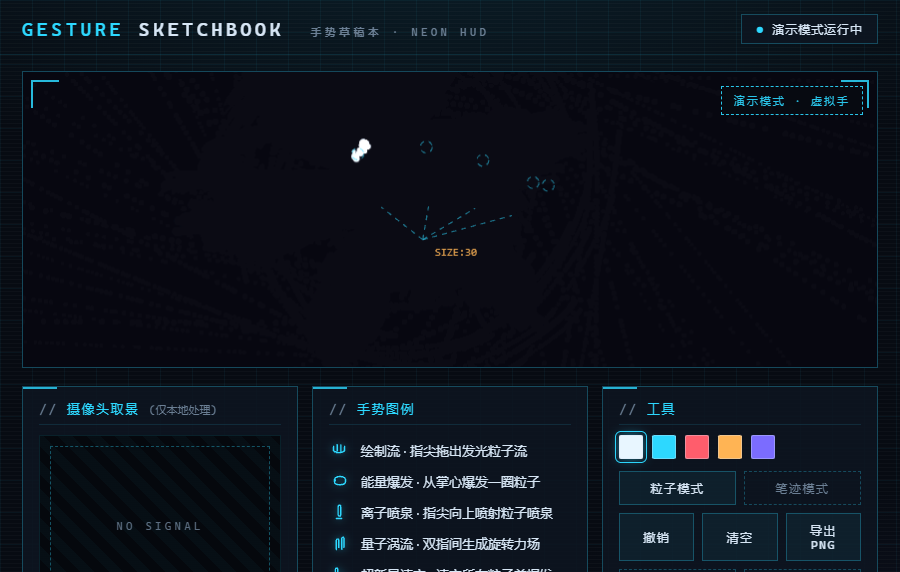
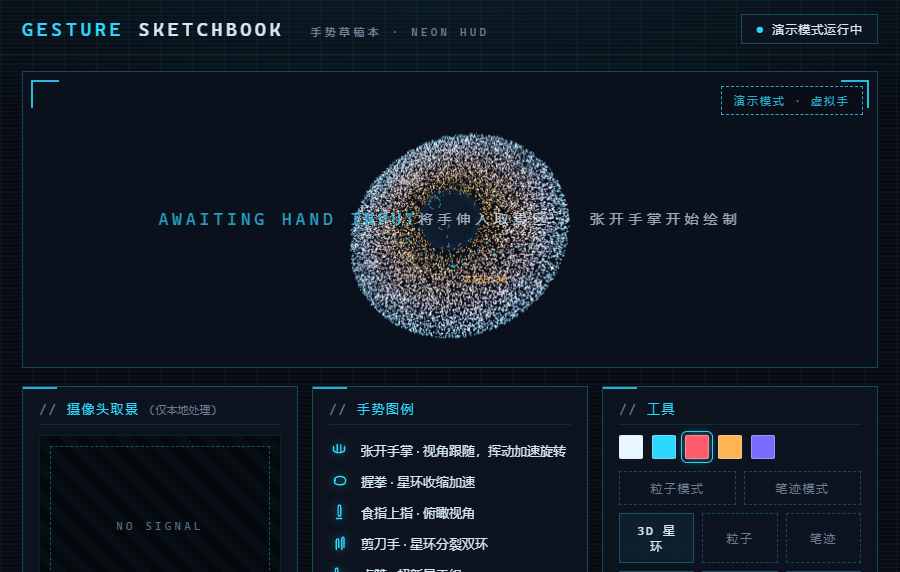
feat: 3D 星环模式（Three.js）——手势实时驱动土星式粒子星环：视角跟随/挥动加速/收缩/俯瞰/双环分裂/超新星/捏合聚合成星球；三模式架构与文档同步

diff --git a/docs/学习路线.html b/docs/学习路线.html
@@ -170,7 +170,7 @@
       <div class="arrow">--&gt;</div>
       <div class="node"><div class="t">手势识别</div><div class="d">21 个关键点 + 手势名</div></div>
       <div class="arrow">--&gt;</div>
-      <div class="node"><div class="t">粒子/笔迹</div><div class="d">粒子效果 · 霓虹笔迹</div></div>
+      <div class="node"><div class="t">3D/粒子/笔迹</div><div class="d">星环 · 粒子 · 霓虹笔迹</div></div>
     </div>
     <p>对应到文件：<code>gestures.js</code> 管前两段，<code>sketch.js</code> 和 <code>app.js</code> 管最后一段。所有"可以随便改"的参数，都集中在 <code>config.js</code> 一个文件里。</p>
   </section>
@@ -200,7 +200,7 @@ node scripts/serve.js</code></pre>
     <p>浏览器打开 <code>http://localhost:8000</code>：</p>
     <ol class="steps">
       <li>弹出摄像头授权 → 点<strong>"允许"</strong>。右上角状态灯变绿、显示"已就绪"。</li>
-      <li>手伸到镜头前 30–60cm，<em class="tech">张开手掌</em>——移动手，指尖拖出发光粒子流（默认粒子模式；点"笔迹模式"可切回画笔）。</li>
+      <li>手伸到镜头前 30–60cm，<em class="tech">张开手掌</em>——默认 3D 星环模式：挥动手掌，星环随你旋转加速；捏合聚合成星球；侧栏可切换粒子/笔迹模式。</li>
       <li>试试其他手势：握拳换颜色、食指上指开构造线、剪刀手换笔刷、点赞清空。</li>
       <li>没有摄像头？点右侧"演示模式"，一只虚拟手会自动表演全部交互。</li>
     </ol>
@@ -216,7 +216,8 @@ node scripts/serve.js</code></pre>
     <p>每个文件只干一件事——这是好项目的通例，也是你能快速上手的理由：</p>
     <table>
       <tr><th>文件</th><th>你要理解的一件事</th></tr>
-      <tr><td><code>js/config.js</code></td><td>所有"可调参数"集中在这：颜色、笔刷、平滑、阈值、粒子数量。改这里 = 改行为</td></tr>
+      <tr><td><code>js/config.js</code></td><td>所有"可调参数"集中在这：颜色、笔刷、平滑、阈值、粒子与星环数量。改这里 = 改行为</td></tr>
+      <tr><td><code>js/space3d.js</code></td><td>3D 星环模式：Three.js 粒子云、相机跟随、聚合/分裂/超新星</td></tr>
       <tr><td><code>js/effects.js</code></td><td><strong>手势→粒子效果注册表</strong>：一个条目 = 一种手势的效果，加新效果就加条目</td></tr>
       <tr><td><code>js/particles.js</code></td><td>粒子池、力场（引力/涡流/掌风）与辉光拖影渲染</td></tr>
       <tr><td><code>js/app.js</code></td><td>模式切换；笔迹模式动作在 <code>onGesture()</code>，粒子模式在 <code>particleFrame()</code> 走注册表</td></tr>

diff --git a/js/space3d.js b/js/space3d.js
@@ -50,7 +50,7 @@ export class Space3D {
     const pos = new Float32Array(N * 3);
     const col = new Float32Array(N * 3);
 
-    const cIn = new THREE.Color("#ffd9a0"), cMid = new THREE.Color("#eef3ff"), cOut = new THREE.Color("#8fd8ff");
+    const cIn = new THREE.Color("#ffb85c"), cMid = new THREE.Color("#cfdcff"), cOut = new THREE.Color("#7cd4ff");
     const fib = 2.399963;
     for (let i = 0; i < N; i++) {
       this.a[i] = Math.random() * Math.PI * 2;
@@ -76,7 +76,7 @@ export class Space3D {
     this.pos = pos;
     this.geo = geo;
     this.points = new THREE.Points(geo, new THREE.PointsMaterial({
-      size: 0.032, vertexColors: true, transparent: true, opacity: 0.95,
+      size: 0.042, vertexColors: true, transparent: true, opacity: 0.88,
       blending: THREE.AdditiveBlending, depthWrite: false, sizeAttenuation: true,
     }));
     this.scene.add(this.points);
@@ -181,8 +181,8 @@ export class Space3D {
       Math.cos(this.azim) * Math.sin(this.polar) * R
     );
     this.camera.lookAt(0, 0, 0);
-    this.points.rotation.x = Math.sin(this._time * 0.3) * 0.1;
-    this.points.rotation.z = 0.16;
+    this.points.rotation.x = 0.42 + Math.sin(this._time * 0.3) * 0.08; // 土星式倾角
+    this.points.rotation.z = 0.24;
     // 捏合成星球时 core 稍微发亮
     const coreS = this.morph === "sphere" ? 1.12 : 1;
     this.core.scale.setScalar(coreS);

diff --git a/docs/故障排查.html b/docs/故障排查.html
@@ -85,6 +85,7 @@
     <tr><td>捏合撤销总误触</td><td>调小 <code>pinchRatio</code>（如 <code>0.035</code>）</td></tr>
     <tr><td>粒子效果变卡</td><td>同屏粒子太多：<code>js/config.js</code> 里把 <code>particles.max</code> 调低（如 1200），或关闭其他占用显卡的标签页；也可以切到"笔迹模式"（更轻量）</td></tr>
     <tr><td>想要画笔而不是粒子</td><td>点侧栏"笔迹模式"按钮，或地址加 <code>?mode=ink</code>；想默认笔迹模式可以把书签指向带参数的地址</td></tr>
+    <tr><td>3D 星环黑屏/卡顿</td><td>需要 WebGL 与硬件加速：浏览器设置里开启硬件加速；粒子太多则把 <code>js/config.js</code> 里 <code>space.count</code> 调低（如 6000）；首次进入需联网加载 Three.js</td></tr>
   </table>
 
   <h2><span class="dot">●</span> 页面与网络问题</h2>

diff --git a/js/app.js b/js/app.js
@@ -458,6 +458,7 @@ window.__app = {
   get space() { return space3d; },
   strokes: () => pad.strokes.length,
   particles: () => (renderMode === "space3d" && space3d ? space3d.count : ps.count),
+  demoT: () => (demo ? demo.t : -1),
   latency: () => (engine ? engine.latencyMs : 0),
   pad,
   ps,

diff --git a/README.md b/README.md
@@ -1,12 +1,12 @@
 # 手势草稿本 · Gesture Sketchbook
 
-用摄像头手势驱动霓虹粒子的 Web 应用（默认粒子模式，可一键切回笔迹模式）。张开手掌 = 指尖喷出粒子流，握拳 = 能量爆发，捏合 = 指尖聚合一朵缓缓绽放的花、松开即消散——不需要任何外设，一个浏览器就够。深空底色 + 青色辉光 + HUD 取景框，科技感拉满。
+用摄像头手势驱动的实时交互粒子 Web 应用，三种视觉模式：**3D 星环**（Three.js，默认）、**粒子**、**笔迹**。张开手掌挥动，星环随你加速旋转；捏合，万千粒子聚合成星球。深空底色 + 青色 HUD，科技感拉满。
 
 ![演示动图](assets/demo.gif)
 
-构造线模式(手部骨架以虚线画在纸上)与摄像头异常处理:
+3D 星环（手势控制视角与聚合）与摄像头异常处理：
 
-![构造线模式](assets/screenshots/demo-heart-construction.png)
+![3D 星环](assets/screenshots/demo-space-ring.png)
 
 ![摄像头异常提示](assets/screenshots/error-camera.png)
 
@@ -18,20 +18,20 @@
 
 ## 手势说明
 
-默认是**粒子模式**（手势驱动粒子效果）；点侧栏「笔迹模式」或地址加 `?mode=ink` 可切换回画笔：
+默认是 **3D 星环模式**（Three.js），侧栏可切换**粒子模式**与**笔迹模式**：
 
-| 手势 | 动作 | 粒子模式效果 | 笔迹模式效果 |
-|------|------|-------------|-------------|
-| 🖐 张开手掌 | 手掌面向镜头移动 | 指尖拖出发光粒子流 | 用食指尖绘制霓虹笔迹 |
-| ✊ 握拳 | 保持 3 帧 | 从掌心爆发一圈粒子 | 切换画笔颜色 |
-| ☝ 食指上指 | 只伸食指 | 指尖向上喷射离子喷泉 | 打开/关闭构造线 |
-| ✌ 剪刀手 | 伸出食指+中指 | 双指间生成量子涡流 | 切换笔刷粗细 |
-| 👍 点赞 | 竖起拇指 | 超新星爆发并清空粒子 | 清空画布 |
-| 🤏 捏合 | 拇指食指捏在一起 | 聚合成一朵缓缓绽放的花，松开消散 | 撤销上一笔 |
+| 手势 | 动作 | 3D 星环模式 | 粒子模式 | 笔迹模式 |
+|------|------|------------|---------|---------|
+| 🖐 张开手掌 | 面向镜头移动 | 视角随手掌移动，挥动加速旋转 | 指尖拖出发光粒子流 | 用食指尖绘制霓虹笔迹 |
+| ✊ 握拳 | 保持 3 帧 | 星环收缩加速 | 从掌心爆发一圈粒子 | 切换画笔颜色 |
+| ☝ 食指上指 | 只伸食指 | 切换俯瞰视角 | 指尖向上喷射离子喷泉 | 打开/关闭构造线 |
+| ✌ 剪刀手 | 伸出食指+中指 | 星环分裂成内外双环 | 双指间生成量子涡流 | 切换笔刷粗细 |
+| 👍 点赞 | 竖起拇指 | 超新星爆开重组 | 超新星爆发并清空粒子 | 清空画布 |
+| 🤏 捏合 | 拇指食指捏在一起 | 万千粒子聚合成星球 | 聚合成一朵缓缓绽放的花，松开消散 | 撤销上一笔 |
 
-除了手势，**动作本身也有效**：快速挥动手掌会带起周围的粒子（掌风气流）。
+除了手势，**动作本身也有效**：快速挥动手掌会带起粒子/加速星环（掌风气流）。
 
-键盘快捷键：`1-5` 选颜色 · `C` 构造线（笔迹模式） · `Ctrl+Z` 撤销 · `Ctrl+S` 导出 PNG。
+键盘快捷键:`1-5` 选颜色 · `C` 构造线(笔迹模式) · `Ctrl+Z` 撤销 · `Ctrl+S` 导出 PNG。
 
 ## 快速开始(3 步)
 
@@ -54,9 +54,10 @@
 
 ## 技术栈
 
-- **原生 HTML / CSS / JavaScript**--没有框架、没有构建步骤,适合初学者逐行阅读
-- **MediaPipe Tasks Vision(GestureRecognizer)**--Google 开源的浏览器端手势识别,21 个手部关键点 + 手势分类,全部在浏览器本地推理
-- **Canvas 2D**--笔迹渲染、手绘抖动、构造线绘制
+- **原生 HTML / CSS / JavaScript**——没有框架、没有构建步骤，适合初学者逐行阅读
+- **Three.js**——3D 星环模式的 WebGL 渲染（CDN 按需懒加载）
+- **MediaPipe Tasks Vision（GestureRecognizer）**——Google 开源的浏览器端手势识别，21 个手部关键点 + 手势分类，全部在浏览器本地推理
+- **Canvas 2D**——粒子/笔迹渲染、HUD 构造线绘制
 
 ## 隐私说明
 
@@ -73,10 +74,11 @@
 | `js/config.js` | **所有可调参数**:颜色、笔刷、平滑、阈值--改这里就能定制 |
 | `js/gestures.js` | 摄像头 + MediaPipe 识别循环 + 平滑/防抖 |
 | `js/sketch.js` | 绘画引擎:笔迹、构造线、撤销、导出 |
+| `js/space3d.js` | 3D 星环模式：Three.js 粒子云 + 相机/聚合/分裂 |
 | `js/particles.js` | 粒子引擎：粒子池、引力点/涡流力场、辉光拖影渲染 |
 | `js/effects.js` | **手势→粒子效果注册表（加新效果改这里）** |
-| `js/demo.js` | 演示模式：虚拟手按时间轴驱动同一套数据流 |
-| `js/app.js` | 入口：双模式切换 + 把"识别结果"翻译成"交互动作" |
+| `js/demo.js` | 演示模式:虚拟手按时间轴驱动同一套数据流 |
+| `js/app.js` | 入口:双模式切换 + 把"识别结果"翻译成"交互动作" |
 | `scripts/serve.js` | 本地静态服务器 |
 | `tests/check.mjs` | 自动化验收测试(13 项) |
 | `tests/soak.mjs` | 5 分钟稳定性测试 |
@@ -87,13 +89,13 @@
 
 遇到问题先看 [docs/故障排查.md](docs/故障排查.md)。
 
-## 扩展：添加你自己的手势效果
+## 扩展:添加你自己的手势效果
 
-项目特意把"手势 → 粒子行为"做成了注册表（`js/effects.js`），加一个新效果只要 3 步：
+项目特意把"手势 → 粒子行为"做成了注册表(`js/effects.js`),加一个新效果只要 3 步:
 
-1. 在 `EFFECTS` 里加一个条目，键名用 MediaPipe 的手势名（可用：`Open_Palm` / `Closed_Fist` / `Pointing_Up` / `Victory` / `Thumb_Up` / `Thumb_Down` / `ILoveYou` / `Thumb_Index`）。
-2. 按需写 `onEnter`（触发瞬间）/ `onFrame`（持续期间）/ `onExit`（松开瞬间）三个钩子，用 `ps.spawn()` / `ps.burst()` 生成粒子。
-3. 保存刷新——侧栏图例自动更新，其他文件一行都不用改。
+1. 在 `EFFECTS` 里加一个条目,键名用 MediaPipe 的手势名(可用:`Open_Palm` / `Closed_Fist` / `Pointing_Up` / `Victory` / `Thumb_Up` / `Thumb_Down` / `ILoveYou` / `Thumb_Index`)。
+2. 按需写 `onEnter`(触发瞬间)/ `onFrame`(持续期间)/ `onExit`(松开瞬间)三个钩子,用 `ps.spawn()` / `ps.burst()` 生成粒子。
+3. 保存刷新--侧栏图例自动更新,其他文件一行都不用改。
 
 `js/effects.js` 文件头有更完整的参数说明。
 

diff --git a/docs/故障排查.md b/docs/故障排查.md
@@ -24,6 +24,7 @@
 | 捏合撤销总误触 | 捏合阈值太宽松 | 调小 `pinchRatio`（如 `0.035`） |
 | 粒子效果变卡 | 同屏粒子太多 | `js/config.js` 里把 `particles.max` 调低（如 1200），或关闭其他占显卡的标签页；也可切到"笔迹模式"（更轻量） |
 | 想要画笔而不是粒子 | 模式选择 | 点侧栏"笔迹模式"按钮，或地址加 `?mode=ink` |
+| 3D 星环黑屏/卡顿 | 需要 WebGL 与硬件加速 | 浏览器设置里开硬件加速；粒子太多则把 `js/config.js` 里 `space.count` 调低（如 6000）；首次进入需联网加载 Three.js |
 
 ## 页面与网络问题
 
